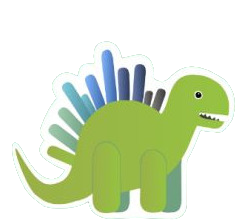
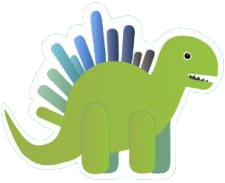
whoop

diff --git a/src/create.js b/src/create.js
@@ -18,14 +18,19 @@ function create ()
     //platforms.create(window.screen.width, 600, 'ground');
 
     // create player object
-    player = this.physics.add.sprite(100, 450, 'data_dino');
-    player.setBounce(0.2);
+    player = this.physics.add.sprite(200, 450, 'data_dino');
+    player.setBounce(0);
     player.setCollideWorldBounds(true);
 
     // create invisible ground to collide with, and put texture over it because i dont know any better
     ground = this.physics.add.image(0, 680, 'ground_invis').setScale(2).refreshBody();
     ground.setCollideWorldBounds(true);
 
+    bar = this.physics.add.sprite(window.screen.width + 10 , 450, 'bar');
+    bar.body.setAllowGravity(false);
+    //bar.setTint = '#4287f5';
+    //bar.setCollideWorldBounds(false);
+    
 
 
 
@@ -41,7 +46,16 @@ function create ()
     this.physics.add.collider(player, ground);
 
     // create cursor keys object (check up down left right keys)
-    cursors = this.input.keyboard.createCursorKeys();
+    cursors = this.input.keyboard.addKeys('SPACE,up');
+    this.input.on('pointerdown', function (pointer)
+    {
+
+        console.log(this.game.loop.frame, 'down B');
+
+        this.touchDown = true;
+
+    }, this);
+
 
     // add collectable
     stars = this.physics.add.group({
@@ -50,15 +64,17 @@ function create ()
         setXY: { x: 12, y: 0, stepX: 70 }
     });
 
-    stars.children.iterate(function (child) {
+/*     stars.children.iterate(function (child) {
 
         child.setBounceY(Phaser.Math.FloatBetween(0.4, 0.8));
 
-    });
+    }); */
     
     this.physics.add.collider(stars, ground);
-    this.physics.add.overlap(player, stars, collectStar, null, this);
+    this.physics.add.overlap(player, stars, collectStar);
+    this.physics.add.overlap(player, bar, hitObstacle);
 
-    scoreText = this.add.text(16, 16, 'score: 0', { fontSize: '32px', fill: '#000' });
+    scoreText = this.add.text(16, 16, 'press space', { fontSize: '32px', fill: '#000' });
+
 
 }

diff --git a/src/update.js b/src/update.js
@@ -1,6 +1,6 @@
 function update ()
     {
-        if (cursors.left.isDown)
+/*         if (cursors.left.isDown)
         {
             player.setVelocityX(-160);
 
@@ -17,12 +17,27 @@ function update ()
             player.setVelocityX(0);
 
             //player.anims.play('turn');
+        } */
+
+
+        if (!gameOver) {
+
+            if ((player.body.blocked.down || player.body.touching.down) && (cursors.SPACE.isDown ||  cursors.up.isDown || this.touchDown))
+                {
+                    player.setVelocityY(-2500);
+                    player.body.gravity.y = 6000;
+                    console.log('jump')
+                    firstSpace = true;
+                    this.touchDown = false;
+                }
+
+            this.background.setTilePosition(this.cameras.main.scrollX);
+            this.ground_img.setTilePosition(this.cameras.main.scrollX);
+            elapsedSeconds = Math.floor((Date.now() - startTime) / 100);
+            if (firstSpace) {scoreText.setText('Score: ' + elapsedSeconds);}
+            bar.x += -speed;
+        } else {
+            this.add.text((window.screen.width / 2) - 350, 350 , 'bist du dumm du sollst da rueber springen', { fontSize: '32px', fill: '#000' });
         }
 
-        if (cursors.up.isDown && player.body.touching.down)
-        {
-            player.setVelocityY(-330);
-        }
-
-        this.background.setTilePosition(this.cameras.main.scrollX);
     }

diff --git a/index.html b/index.html
@@ -29,7 +29,7 @@
         physics: {
         default: 'arcade',
         arcade: {
-            gravity: { y: 300 },
+            gravity: { y: 2000 },
             debug: false
             }
         },
@@ -57,14 +57,23 @@
     var game = new Phaser.Game(config);
     var score = 0;
     var scoreText;
+    let startTime = Date.now();
+    let speed = 5;
+    let gameOver = false;
+    let firstSpace = false;
 
 
     function collectStar (player, star)
     {
         star.disableBody(true, true);
 
-        score += 10;
-        scoreText.setText('Score: ' + score);
+    }
+
+    function hitObstacle (player)
+    {
+
+        console.log('hit!')
+        gameOver = true;
     }
 
 </script>

diff --git a/src/preload.js b/src/preload.js
@@ -4,6 +4,7 @@ function preload ()
     this.load.image('bg', 'example/assets/sky.png');
     this.load.image('data_dino', 'assets/data_dino.png');
     this.load.image('ground', 'example/assets/platform.png');
+    this.load.image('bar', 'assets/bar.png');
     this.load.image('ground_invis', 'assets/platform_invisible.png');
     this.load.image('star', 'example/assets/star.png');
     //this.load.spritesheet('dude', 'assets/dude.png', { frameWidth: 32, frameHeight: 48 });
